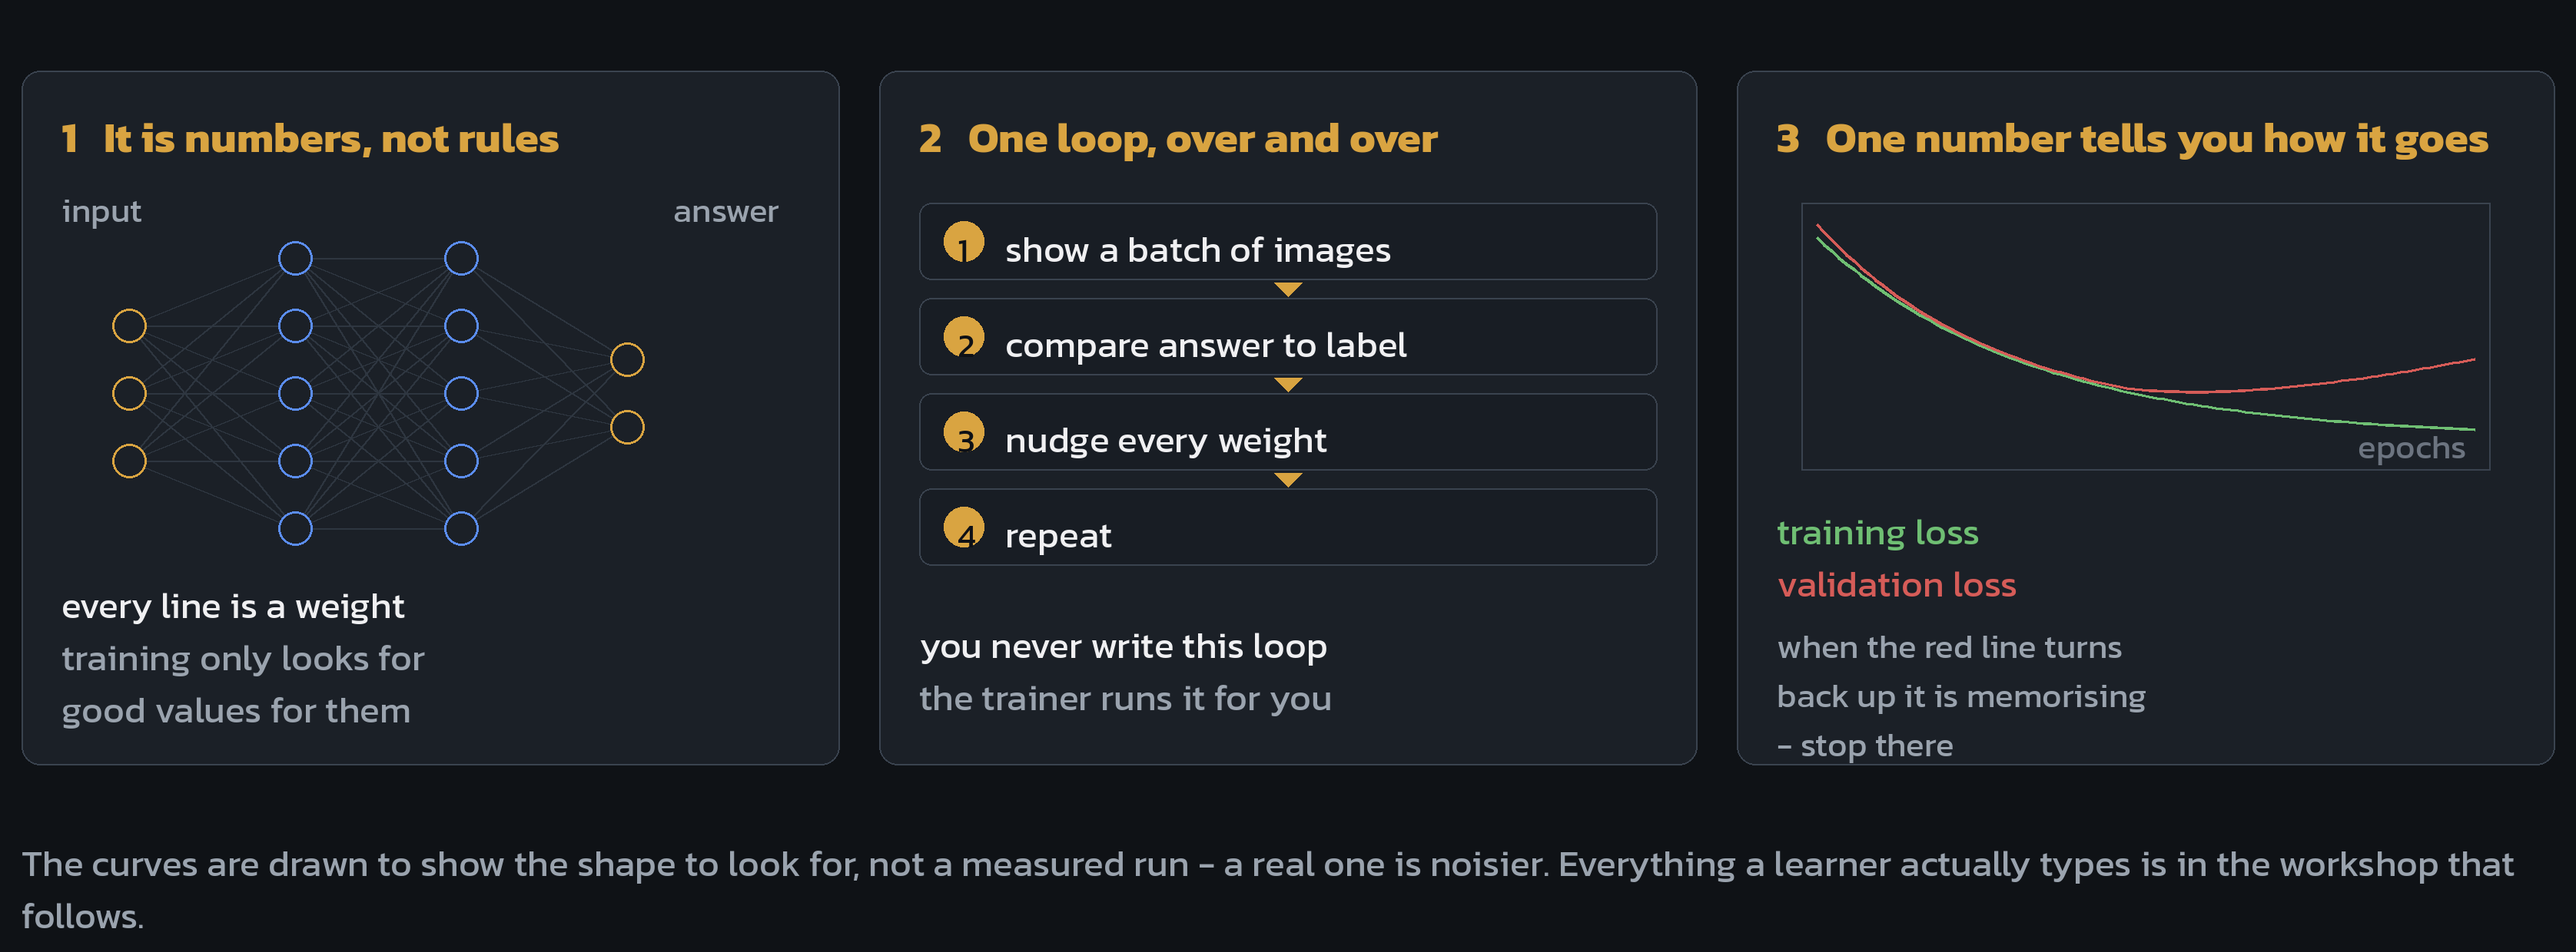
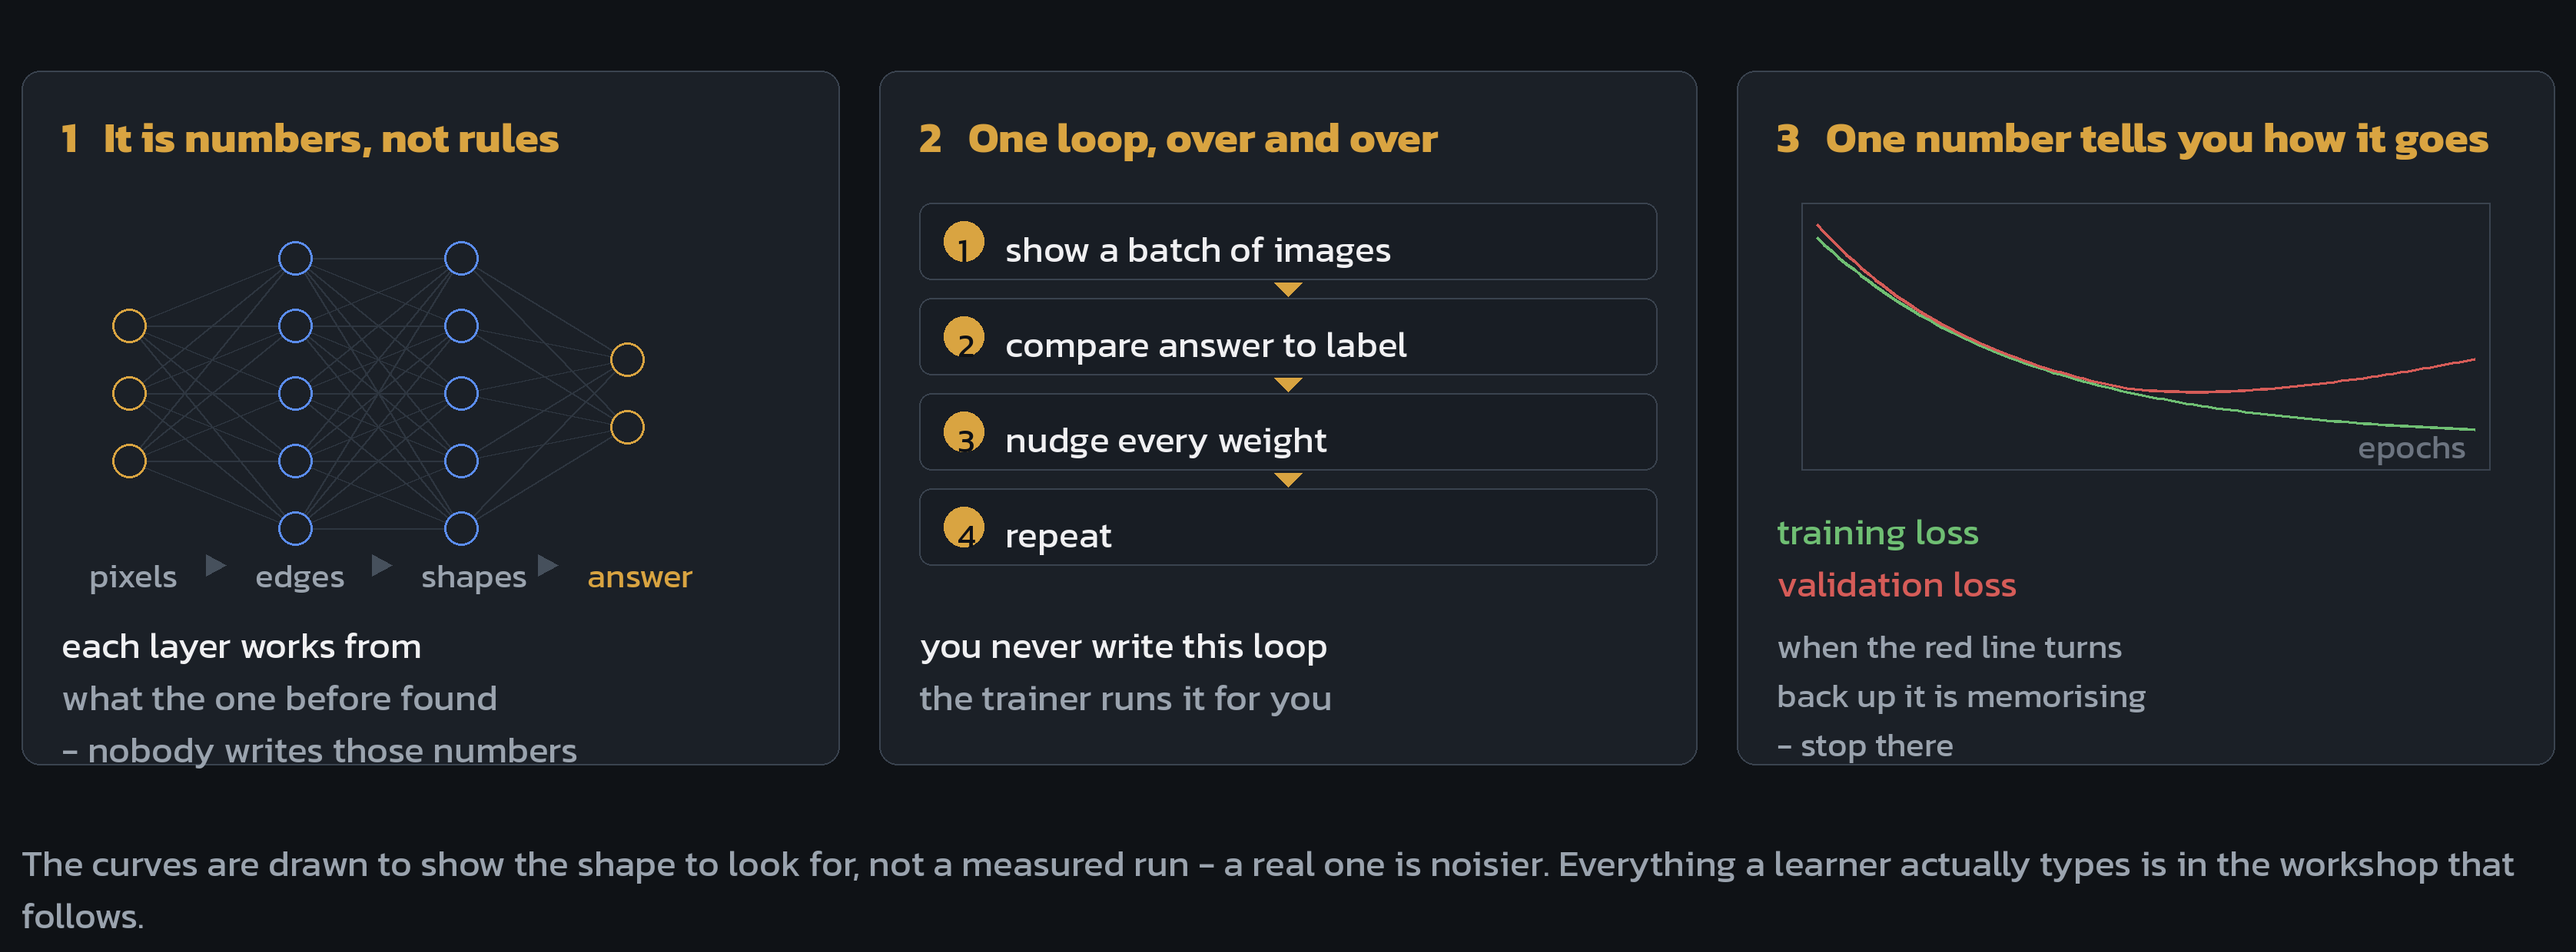
slide_assets: show the rules-versus-learning argument instead of diagramming it
Page 2 was an abstract flow - Image, Rules you wrote, Answer over labelled
examples, Training, Model, Answer. True, but it asks the reader to imagine
what each box means, and Anon wanted a worked example with real pictures.

ch4_rules runs both approaches on one photograph and lets the result make
the argument. A hand-written colour rule finds 2 blue regions; the same
rule on the same frame with the lamp dimmed finds nothing at all. The model
finds 4 objects either way. Measured at render time and printed to stdout,
so the captions cannot drift from the run.

ch4_training's first panel keeps the part of the retired architecture slide
worth keeping: pixels, edges, shapes, answer, each layer working from what
the one before it found. That was the picture that made deep learning click
for Anon, so it survives as four words under the diagram rather than as a
page of its own.

Claude-Session: https://claude.ai/code/session_01L2BgT3gVYruUssRpoAW2J5

Changed region(s): [[0.0, 0.5823, 0.2792, 0.7968], [0.2482, 0.2145, 0.3103, 0.2452], [0.031, 0.2145, 0.0621, 0.2452]]

diff --git a/slide_assets/src/ch4_rules.py b/slide_assets/src/ch4_rules.py
@@ -1,0 +1,170 @@
+"""Chapter 4 page 2 - rules you write, against examples you show.
+
+The page used to be an abstract flow diagram: Image -> Rules you wrote ->
+Answer, over labelled examples -> Training -> Model -> Answer. True, but it
+asks the reader to imagine what each box means.
+
+This does it on one photograph instead. The same frame, the same lamp
+change, two approaches:
+
+  colour rule you wrote   as photographed  2 blobs, 36,016 px
+                          lamp dimmed      0 blobs, nothing at all
+  model                   as photographed  4 objects - bus, person
+                          lamp dimmed      4 objects - unchanged
+
+Measured at render time, printed to stdout when this runs. If the numbers
+move, the figure moves with them - nothing here is typed in by hand.
+
+Output: /home/claude/deck/img/ch4_rules.png, for a 1920x1080 slide at 2x.
+"""
+import sys
+import warnings
+from collections import Counter
+
+import cv2
+import numpy as np
+from PIL import Image, ImageDraw
+
+warnings.filterwarnings("ignore")
+sys.path.insert(0, "/home/claude/deck")
+from ch0_panels import font, wrap, OUT, BG, PANEL, EDGE, GOLD, MUTED, WHITE, S, W, H
+
+AI = "/home/claude/deck/ai_samples/"
+GREEN = (111, 191, 115)
+RED = (214, 92, 88)
+C_PERSON = (115, 191, 111)
+C_BUS = (88, 92, 214)
+
+# the six numbers a person has to choose for the colour rule
+LO, HI = (95, 90, 70), (125, 255, 255)
+
+
+def band(im):
+    h = im.shape[0]
+    return im[int(h * 0.27):int(h * 0.81), :]
+
+
+def colour_rule(img):
+    """Find the bus by colour, the way a person would write it by hand."""
+    hsv = cv2.cvtColor(img, cv2.COLOR_BGR2HSV)
+    m = cv2.inRange(hsv, LO, HI)
+    m = cv2.morphologyEx(m, cv2.MORPH_OPEN, np.ones((9, 9), np.uint8))
+    cs, _ = cv2.findContours(m, cv2.RETR_EXTERNAL, cv2.CHAIN_APPROX_SIMPLE)
+    cs = [c for c in cs if cv2.contourArea(c) > 8000]
+    out = img.copy()
+    tint = np.zeros_like(img)
+    tint[:] = (217, 164, 65)
+    mask = m.astype(bool)
+    out = np.where(mask[:, :, None], cv2.addWeighted(img, 0.35, tint, 0.65, 0),
+                   out)
+    for c in cs:
+        x, y, bw, bh = cv2.boundingRect(c)
+        cv2.rectangle(out, (x, y), (x + bw, y + bh), (65, 164, 217), 4)
+    return out, len(cs)
+
+
+def model_run(det, img):
+    r = det(img, conf=0.5, verbose=False)[0]
+    out = img.copy()
+    for b, c in zip(r.boxes.xyxy, r.boxes.cls):
+        x1, y1, x2, y2 = [int(v) for v in b]
+        nm = r.names[int(c)]
+        col = C_PERSON if nm == "person" else C_BUS
+        cv2.rectangle(out, (x1, y1), (x2, y2), col, 4)
+    names = [r.names[int(c)] for c in r.boxes.cls]
+    return out, len(names), Counter(names)
+
+
+def paste_fit(img, d, frame, box, outline=EDGE):
+    x, y, bw, bh = box
+    a = cv2.cvtColor(frame, cv2.COLOR_BGR2RGB)
+    ih, iw = a.shape[:2]
+    sc = min(bw / iw, bh / ih)
+    tw, th = int(iw * sc), int(ih * sc)
+    tile = Image.fromarray(cv2.resize(a, (tw * S, th * S),
+                                      interpolation=cv2.INTER_AREA))
+    px = (x + (bw - tw) // 2) * S
+    py = (y + (bh - th) // 2) * S
+    img.paste(tile, (px, py))
+    d.rectangle([px - 2, py - 2, px + tw * S + 1, py + th * S + 1],
+                outline=outline, width=2)
+
+
+def build():
+    from ultralytics import YOLO
+    det = YOLO("yolov8n.pt")
+
+    base = cv2.imread(AI + "bus.jpg")
+    dusk = cv2.convertScaleAbs(base, alpha=0.38, beta=-12)
+
+    rule_ok, n_rule_ok = colour_rule(base)
+    rule_bad, n_rule_bad = colour_rule(dusk)
+    ml_ok, n_ml_ok, c_ok = model_run(det, base)
+    ml_bad, n_ml_bad, c_bad = model_run(det, dusk)
+    print("rule : %d -> %d    model: %d %s -> %d %s"
+          % (n_rule_ok, n_rule_bad, n_ml_ok, dict(c_ok), n_ml_bad, dict(c_bad)))
+
+    img = Image.new("RGB", (W * S, H * S), BG)
+    d = ImageDraw.Draw(img)
+    f_row = font("Kanit", 29, "bold")
+    f_sub = font("Kanit", 22)
+    f_code = font("DejaVu Sans Mono", 19)
+    f_col = font("Kanit", 23, "bold")
+    f_res = font("Kanit", 27, "bold")
+
+    PAD = 14
+    lab_w = 392
+    cell_w = (W - 2 * PAD - lab_w - 3 * 18) // 2
+    rows_top = [86, 338]
+    col_x = [PAD + lab_w + 18, PAD + lab_w + 18 * 2 + cell_w]
+
+    d.text((col_x[0] * S, 52 * S), "as photographed", font=f_col, fill=MUTED)
+    d.text((col_x[1] * S, 52 * S), "same frame, lamp dimmed", font=f_col,
+           fill=MUTED)
+
+    # ---------- row 1: the rule you write ----------
+    ry = rows_top[0]
+    d.text((PAD * S, ry * S), "You write the rule", font=f_row, fill=GOLD)
+    d.text((PAD * S, (ry + 38) * S), "you choose all six numbers yourself",
+           font=f_sub, fill=MUTED)
+    code = ["cv2.inRange(hsv,", "   (95, 90, 70),", "   (125,255,255))"]
+    for i, ln in enumerate(code):
+        d.text((PAD * S, (ry + 80 + i * 28) * S), ln, font=f_code, fill=WHITE)
+
+    for i, (frame, n) in enumerate([(rule_ok, n_rule_ok),
+                                    (rule_bad, n_rule_bad)]):
+        paste_fit(img, d, band(frame), (col_x[i], ry, cell_w, 178))
+        col = GREEN if n else RED
+        txt = ("%d blue regions found" % n) if n else "nothing found at all"
+        d.text((col_x[i] * S, (ry + 190) * S), txt, font=f_res, fill=col)
+
+    # ---------- row 2: the examples you show ----------
+    ry = rows_top[1]
+    d.text((PAD * S, ry * S), "You show it examples", font=f_row, fill=GOLD)
+    d.text((PAD * S, (ry + 38) * S), "nobody picks a number at all",
+           font=f_sub, fill=MUTED)
+    for i, ln in enumerate(["labelled photos  ->", "   training  ->",
+                            "   a model"]):
+        d.text((PAD * S, (ry + 80 + i * 28) * S), ln, font=f_code, fill=WHITE)
+
+    for i, (frame, n, cnt) in enumerate([(ml_ok, n_ml_ok, c_ok),
+                                         (ml_bad, n_ml_bad, c_bad)]):
+        paste_fit(img, d, band(frame), (col_x[i], ry, cell_w, 178))
+        d.text((col_x[i] * S, (ry + 190) * S),
+               "%d objects found" % n, font=f_res, fill=GREEN)
+
+    note = ("Measured on this photograph when the slide was built. The rule "
+            "you wrote stops working when the lamp changes; the model never "
+            "noticed. That is the whole trade - you pay for it in labelled "
+            "examples.")
+    ny = H - 64
+    for ln in wrap(d, note, f_sub, (W - 2 * PAD) * S):
+        d.text((PAD * S, ny * S), ln, font=f_sub, fill=MUTED)
+        ny += 30
+
+    img.save(OUT + "ch4_rules.png")
+    print("ch4_rules.png")
+
+
+if __name__ == "__main__":
+    build()

diff --git a/slide_assets/src/ch4_panels.py b/slide_assets/src/ch4_panels.py
@@ -76,12 +76,22 @@ def fig_training():
             d.ellipse([(px - noderad) * S, (py - noderad) * S,
                        (px + noderad) * S, (py + noderad) * S],
                       fill=PANEL, outline=c, width=3)
-    d.text(((x + 26) * S, (top + 74) * S), "input", font=f_s, fill=MUTED)
-    d.text(((x + cw - 108) * S, (top + 74) * S), "answer", font=f_s, fill=MUTED)
-    for i, ln in enumerate(["every line is a weight",
-                            "training only looks for",
-                            "good values for them"]):
-        d.text(((x + 26) * S, (top + 330 + i * 34) * S), ln, font=f_b,
+    # what each column of the stack has worked out by that point - the part
+    # of the old architecture slide that was actually worth keeping
+    stage = ["pixels", "edges", "shapes", "answer"]
+    for ci, name in enumerate(stage):
+        lx = cx0 + ci * colgap - 26
+        d.text((lx * S, (top + 312) * S), name, font=f_s,
+               fill=GOLD if ci == len(stage) - 1 else MUTED)
+        if ci < len(stage) - 1:
+            ax = (lx + 76) * S
+            ay = (top + 322) * S
+            d.polygon([(ax, ay - 7 * S), (ax + 13 * S, ay),
+                       (ax, ay + 7 * S)], fill=(70, 80, 92))
+    for i, ln in enumerate(["each layer works from",
+                            "what the one before found",
+                            "- nobody writes those numbers"]):
+        d.text(((x + 26) * S, (top + 356 + i * 34) * S), ln, font=f_b,
                fill=WHITE if i == 0 else MUTED)
 
     # ---- 2. the loop ----
